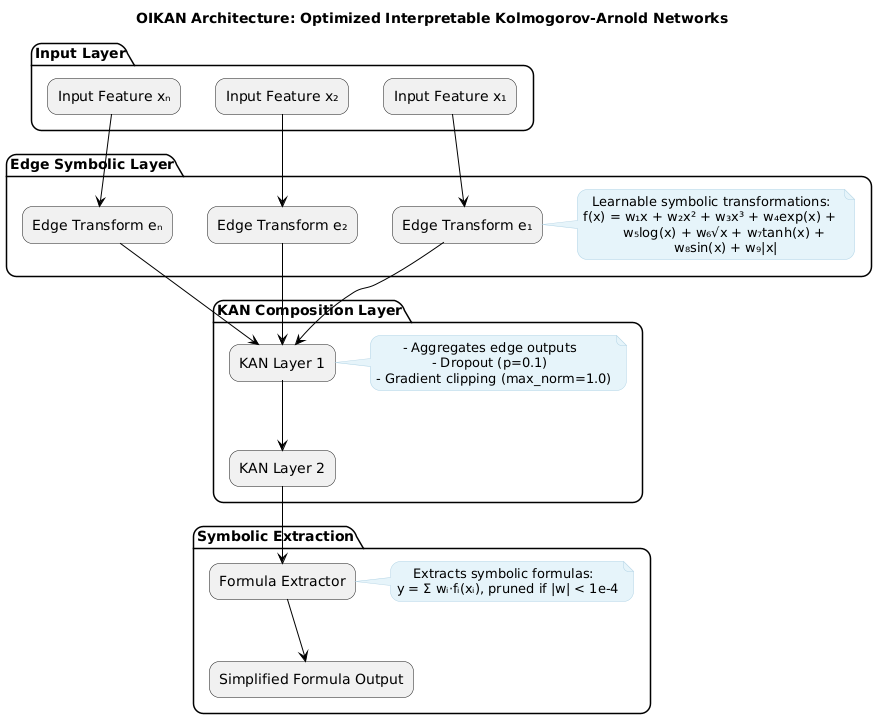
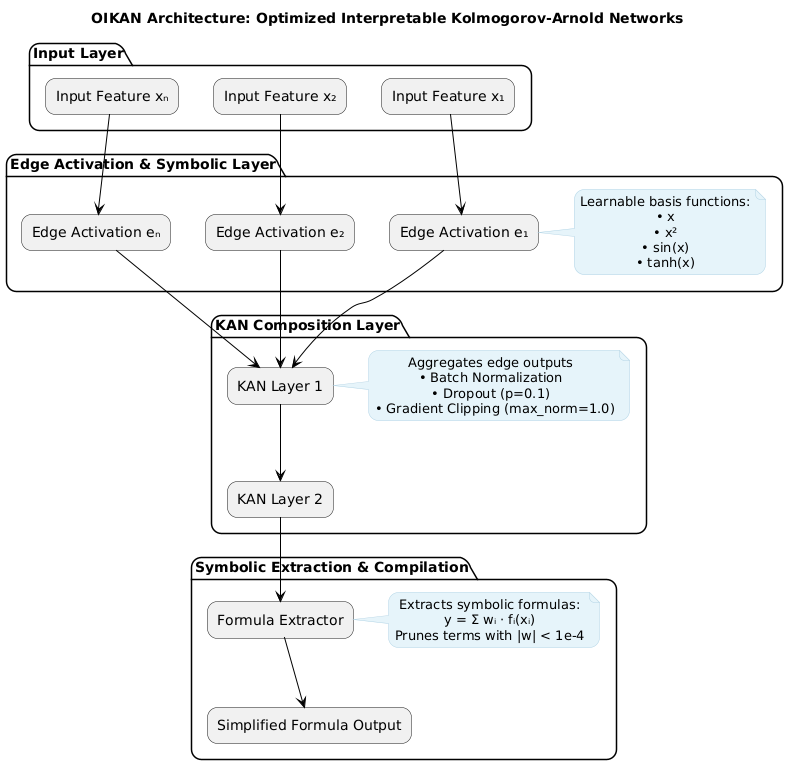
upd-docs+architecture-design-upd

Changed region(s): [[0.0, 0.0, 1.0, 1.0], [0.6701, 0.0918, 0.7005, 0.153]]

diff --git a/docs/index.html b/docs/index.html
@@ -56,6 +56,15 @@
                 <p class="mt-3 max-w-md mx-auto text-base text-gray-100 sm:text-lg md:mt-5 md:text-xl md:max-w-3xl">
                     A neuro-symbolic ML framework that combines modern neural networks with classical Kolmogorov-Arnold representation theory.
                 </p>
+                
+                <!-- Status Widget -->
+                <div class="mt-4 max-w-md mx-auto">
+                    <div class="bg-yellow-50 bg-opacity-90 rounded-lg shadow-sm p-2 flex items-center space-x-2">
+                        <span class="text-yellow-800">⚠</span>
+                        <p class="text-sm text-yellow-800">This is an experimental research project (v0.0.2). For educational and research purposes only.</p>
+                    </div>
+                </div>
+
                 <div class="mt-5 max-w-md mx-auto flex justify-center md:mt-8">
                     <a href="#installation" class="inline-flex items-center px-6 py-3 border border-transparent text-base font-medium rounded-md text-indigo-700 bg-white hover:bg-gray-50 md:py-4 md:text-lg md:px-10">
                         Get Started
@@ -108,9 +117,9 @@ pip install -e .</code></pre>
                     <p class="text-gray-600">Familiar .fit() and .predict() interface</p>
                 </div>
                 <div class="feature-card">
-                    <div class="text-4xl mb-4 text-blue-600">🚀</div>
-                    <h3 class="text-xl font-semibold mb-2">Production-Ready</h3>
-                    <p class="text-gray-600">Export symbolic formulas for lightweight deployment</p>
+                    <div class="text-4xl mb-4 text-blue-600">📥</div>
+                    <h3 class="text-xl font-semibold mb-2">Exportable Formulas</h3>
+                    <p class="text-gray-600">Extract and save symbolic formulas for analysis</p>
                 </div>
             </div>
         </section>
@@ -123,11 +132,8 @@ pip install -e .</code></pre>
                 <pre class="language-python"><code>from oikan.model import OIKANRegressor
 from sklearn.model_selection import train_test_split
 
-# Initialize model with optimal architecture
-model = OIKANRegressor(
-    hidden_dims=[16, 8],  # Network architecture
-    dropout=0.1           # Regularization
-)
+# Initialize regression model
+model = OIKANRegressor()
 
 # Fit model (sklearn-style)
 model.fit(X_train, y_train, epochs=200, lr=0.01)
@@ -143,9 +149,13 @@ model.save_symbolic_formula("regression_formula.txt")</code></pre>
                 <h3 class="text-xl font-semibold mb-4">Classification Example</h3>
                 <pre class="language-python"><code>from oikan.model import OIKANClassifier
 
-# Similar sklearn-style interface for classification
-model = OIKANClassifier(hidden_dims=[16, 8])
-model.fit(X_train, y_train)
+# Initialize classification model
+model = OIKANClassifier()
+
+# Fit model (sklearn-style)
+model.fit(X_train, y_train, epochs=200, lr=0.01)
+
+# Get predictions
 probas = model.predict_proba(X_test)
 
 # Save classification formulas
@@ -156,46 +166,12 @@ model.save_symbolic_formula("classification_formula.txt")</code></pre>
         <section id="contribute" class="mb-16">
             <h2 class="text-3xl font-bold text-gray-900 mb-6">Contribution</h2>
             <div class="bg-white rounded-lg shadow-lg p-6">
-                <h3 class="text-xl font-semibold mb-4">Help Explore OIKAN's Potential</h3>
                 <p class="text-gray-600 mb-4">
-                    We're actively experimenting with the OIKAN model to train new machine learning models and discover 
-                    practical applications. Your contributions can help advance interpretable neural networks and 
-                    expand the possibilities of this framework.
+                    Explore OIKAN's potential by contributing new use cases and experiments. Visit our 
+                    <a href="projects.html" class="text-blue-600 hover:underline">Featured Projects</a> page 
+                    to see examples or share your own research findings through our 
+                    <a href="https://github.com/silvermete0r/oikan/issues" class="text-blue-600 hover:underline">GitHub repository</a>.
                 </p>
-                
-                <div class="bg-blue-50 border-l-4 border-blue-500 p-4 mt-6 mb-6">
-                    <p class="text-blue-700">
-                        <strong>Project Focus:</strong> Finding innovative use cases where interpretable neural networks 
-                        provide unique advantages over traditional black-box models.
-                    </p>
-                </div>
-                
-                <h4 class="text-lg font-semibold mb-3">How to Submit Your Use Case</h4>
-                <ol class="list-decimal list-inside space-y-2 text-gray-600">
-                    <li>Visit our <a href="https://github.com/silvermete0r/oikan/issues" class="text-blue-600 hover:text-blue-800 underline">GitHub Issues page</a></li>
-                    <li>Click on "New Issue"</li>
-                    <li>Use the following template for your submission:
-                        <pre class="language-markdown mt-2"><code># OIKAN Use Case
-
-## Description
-[Brief description of your use case and why OIKAN is suitable for it]
-
-## Implementation Details
-- Dataset: [Dataset name and source]
-- Model configuration: [OIKAN parameters used]
-- Training parameters: [Epochs, learning rate, etc.]
-
-## Results
-[Share your findings, including metrics and visualizations]
-
-## Extracted Formulas
-[Include any symbolic formulas extracted by OIKAN]
-
-## Notebook Link
-[Link to your Jupyter notebook or Python script on GitHub]
-</code></pre>
-                    </li>
-                </ol>
             </div>
         </section>
     </div>

diff --git a/README.md b/README.md
@@ -15,20 +15,39 @@ OIKAN (Optimized Interpretable Kolmogorov-Arnold Networks) is a neuro-symbolic M
 [![GitHub issues](https://img.shields.io/github/issues/silvermete0r/OIKAN.svg)](https://github.com/silvermete0r/oikan/issues)
 [![Docs](https://img.shields.io/badge/docs-passing-brightgreen)](https://silvermete0r.github.io/oikan/)
 
+> **Important Disclaimer**: OIKAN is an experimental research project. It is not intended for production use or real-world applications. This framework is designed for research purposes, experimentation, and academic exploration of neuro-symbolic machine learning concepts.
+
 ## Key Features
 - 🧠 **Neuro-Symbolic ML**: Combines neural network learning with symbolic mathematics
 - 📊 **Automatic Formula Extraction**: Generates human-readable mathematical expressions
 - 🎯 **Scikit-learn Compatible**: Familiar `.fit()` and `.predict()` interface
-- 🚀 **Production-Ready**: Export symbolic formulas for lightweight deployment
+- 🔬 **Research-Focused**: Designed for academic exploration and experimentation
 - 📈 **Multi-Task**: Supports both regression and classification problems
 
 ## Scientific Foundation
 
-OIKAN is based on Kolmogorov's superposition theorem, which states that any multivariate continuous function can be represented as a composition of single-variable functions. We leverage this theory by:
+OIKAN implements the Kolmogorov-Arnold Representation Theorem through a novel neural architecture:
 
-1. Using neural networks to learn optimal basis functions through interpretable edge transformations
-2. Combining transformed features using learnable weights
-3. Automatically extracting human-readable symbolic formulas
+1. **Theorem Background**: Any continuous multivariate function f(x1,...,xn) can be represented as:
+   ```
+   f(x1,...,xn) = ∑(j=0 to 2n){ φj( ∑(i=1 to n) ψij(xi) ) }
+   ```
+   where φj and ψij are continuous single-variable functions.
+
+2. **Neural Implementation**:
+   ```python
+   # Pseudo-implementation of KAN architecture
+   class KANLayer:
+       def __init__(self, input_dim, output_dim):
+           self.edges = [SymbolicEdge() for _ in range(input_dim * output_dim)]
+           self.weights = initialize_weights(input_dim, output_dim)
+   
+       def forward(self, x):
+           # Transform each input through basis functions
+           edge_outputs = [edge(x_i) for x_i, edge in zip(x, self.edges)]
+           # Combine using learned weights
+           return combine_weighted_outputs(edge_outputs, self.weights)
+   ```
 
 ## Quick Start
 
@@ -76,7 +95,7 @@ model.save_symbolic_formula("regression_formula.txt")
 from oikan.model import OIKANClassifier
 
 # Similar sklearn-style interface for classification
-model = OIKANClassifier(hidden_dims=[16, 8])
+model = OIKANClassifier()
 model.fit(X_train, y_train, epochs=100, lr=0.01)
 probas = model.predict_proba(X_test)
 
@@ -84,45 +103,41 @@ probas = model.predict_proba(X_test)
 # The output file will contain:
 # - Decision boundary formulas for each class
 # - Softmax application instructions
-# - Production deployment recommendations
+# - Recommendations for testing and validation
 model.save_symbolic_formula("classification_formula.txt")
 ```
 
 *Example of the saved symbolic formula instructions: [outputs/classification_symbolic_formula.txt](outputs/classification_symbolic_formula.txt)*
 
-## Architecture Details
 
-OIKAN implements a novel neuro-symbolic architecture based on Kolmogorov-Arnold representation theory through three specialized components:
+### Key Design Principles
 
-1. **Edge Symbolic Layer**: Learns interpretable single-variable transformations
-   - Adaptive basis function composition using 9 core functions:
-     ```python
-     ADVANCED_LIB = {
-         'x':    ('x', lambda x: x),
-         'x^2':  ('x^2', lambda x: x**2),
-         'x^3':  ('x^3', lambda x: x**3),
-         'exp':  ('exp(x)', lambda x: np.exp(x)),
-         'log':  ('log(x)', lambda x: np.log(abs(x) + 1)),
-         'sqrt': ('sqrt(x)', lambda x: np.sqrt(abs(x))),
-         'tanh': ('tanh(x)', lambda x: np.tanh(x)),
-         'sin':  ('sin(x)', lambda x: np.sin(x)),
-         'abs':  ('abs(x)', lambda x: np.abs(x))
-     }
-     ```
-   - Each input feature is transformed through these basis functions
-   - Learnable weights determine the optimal combination
+1. **Interpretability by Design**
+   ```python
+   # Edge activation contains interpretable basis functions
+   ADVANCED_LIB = {
+       'x': (lambda x: x),          # Linear
+       'x^2': (lambda x: x**2),     # Quadratic
+       'sin(x)': np.sin,            # Periodic
+       'tanh(x)': np.tanh          # Bounded
+   }
+   ```
 
-2. **Neural Composition Layer**: Multi-layer feature aggregation
-   - Direct feature-to-feature connections through KAN layers
-   - Dropout regularization (p=0.1 default) for robust learning
-   - Gradient clipping (max_norm=1.0) for stable training
-   - User-configurable hidden layer dimensions
+2. **Automatic Simplification**
+   ```python
+   def simplify_formula(terms, threshold=1e-4):
+       return [term for term in terms if abs(term.coefficient) > threshold]
+   ```
 
-3. **Symbolic Extraction Layer**: Generates production-ready formulas
-   - Weight-based term pruning (threshold=1e-4)
-   - Automatic coefficient optimization
-   - Human-readable mathematical expressions
-   - Exportable to lightweight production code
+3. **Research-Oriented Architecture**
+   ```python
+   class SymbolicEdge:
+       def forward(self, x):
+           return sum(w * f(x) for w, f in zip(self.weights, self.basis_functions))
+           
+       def get_formula(self):
+           return format_symbolic_terms(self.weights, self.basis_functions)
+   ```
 
 ### Architecture Diagram
 
@@ -132,11 +147,26 @@ OIKAN implements a novel neuro-symbolic architecture based on Kolmogorov-Arnold 
 
 1. **Interpretability First**: All transformations maintain clear mathematical meaning
 2. **Scikit-learn Compatibility**: Familiar `.fit()` and `.predict()` interface
-3. **Production Ready**: Export formulas as lightweight mathematical expressions
+3. **Symbolic Formula Exporting**: Export formulas as lightweight mathematical expressions
 4. **Automatic Simplification**: Remove insignificant terms (|w| < 1e-4)
 
 
 ### Key Model Components
+
+1. **EdgeActivation Layer**:
+   - Implements interpretable basis function transformations
+   - Automatically prunes insignificant terms
+   - Maintains mathematical transparency
+
+2. **Formula Extraction**:
+   - Combines edge transformations with learned weights
+   - Applies symbolic simplification
+   - Generates human-readable expressions
+
+3. **Training Process**:
+   - Gradient-based optimization of edge weights
+   - Automatic feature importance detection
+   - Complexity control through regularization
 
 ## Contributing
 
